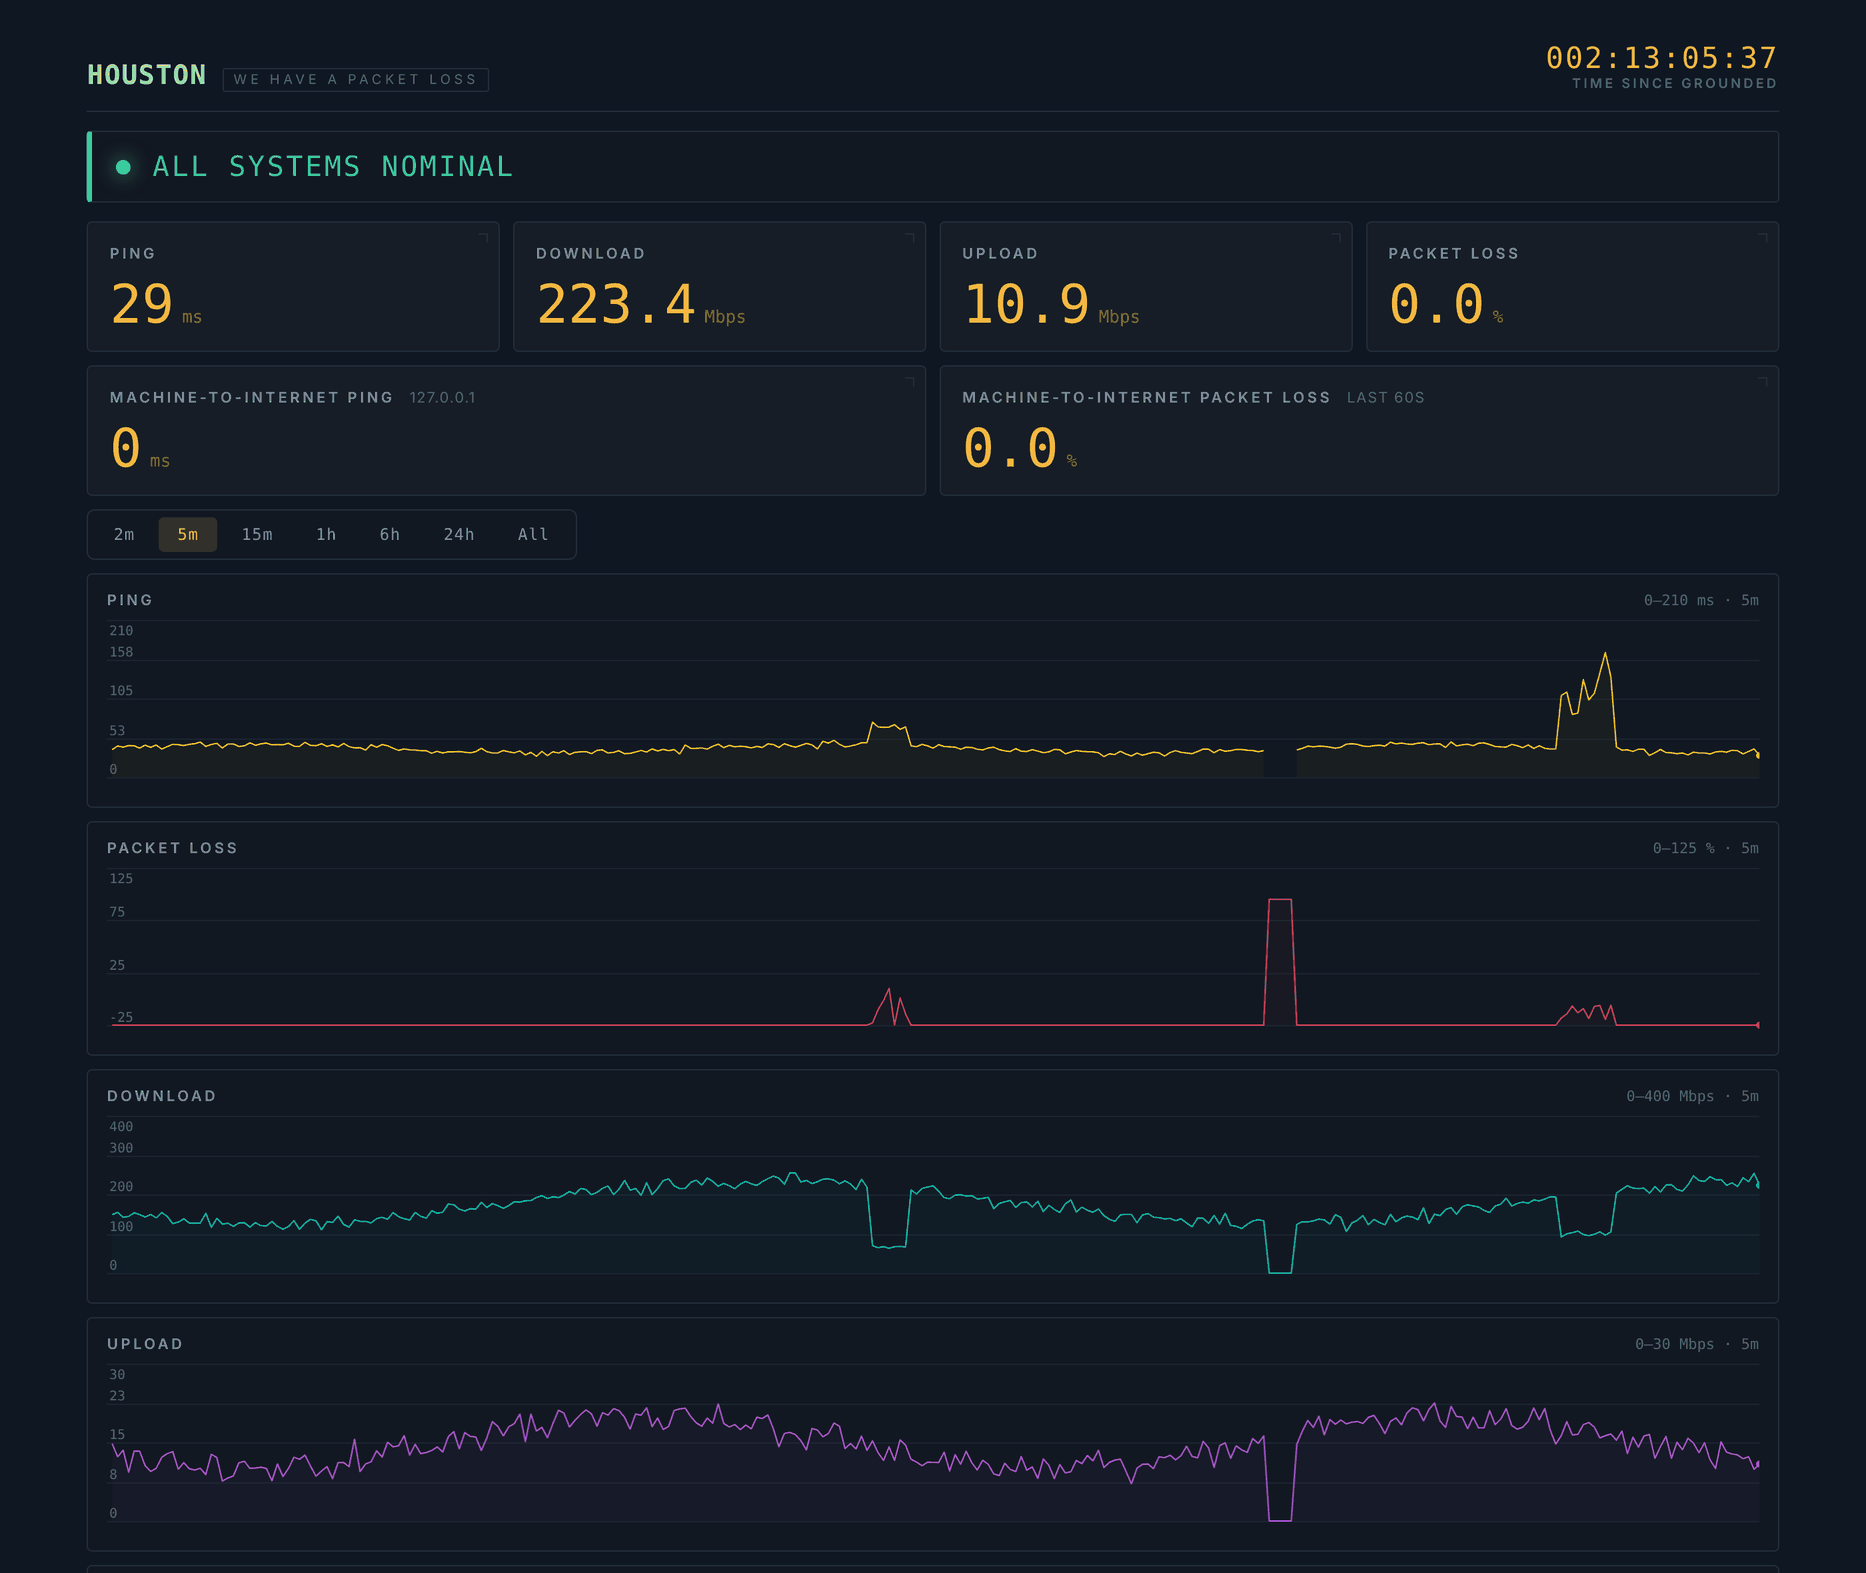
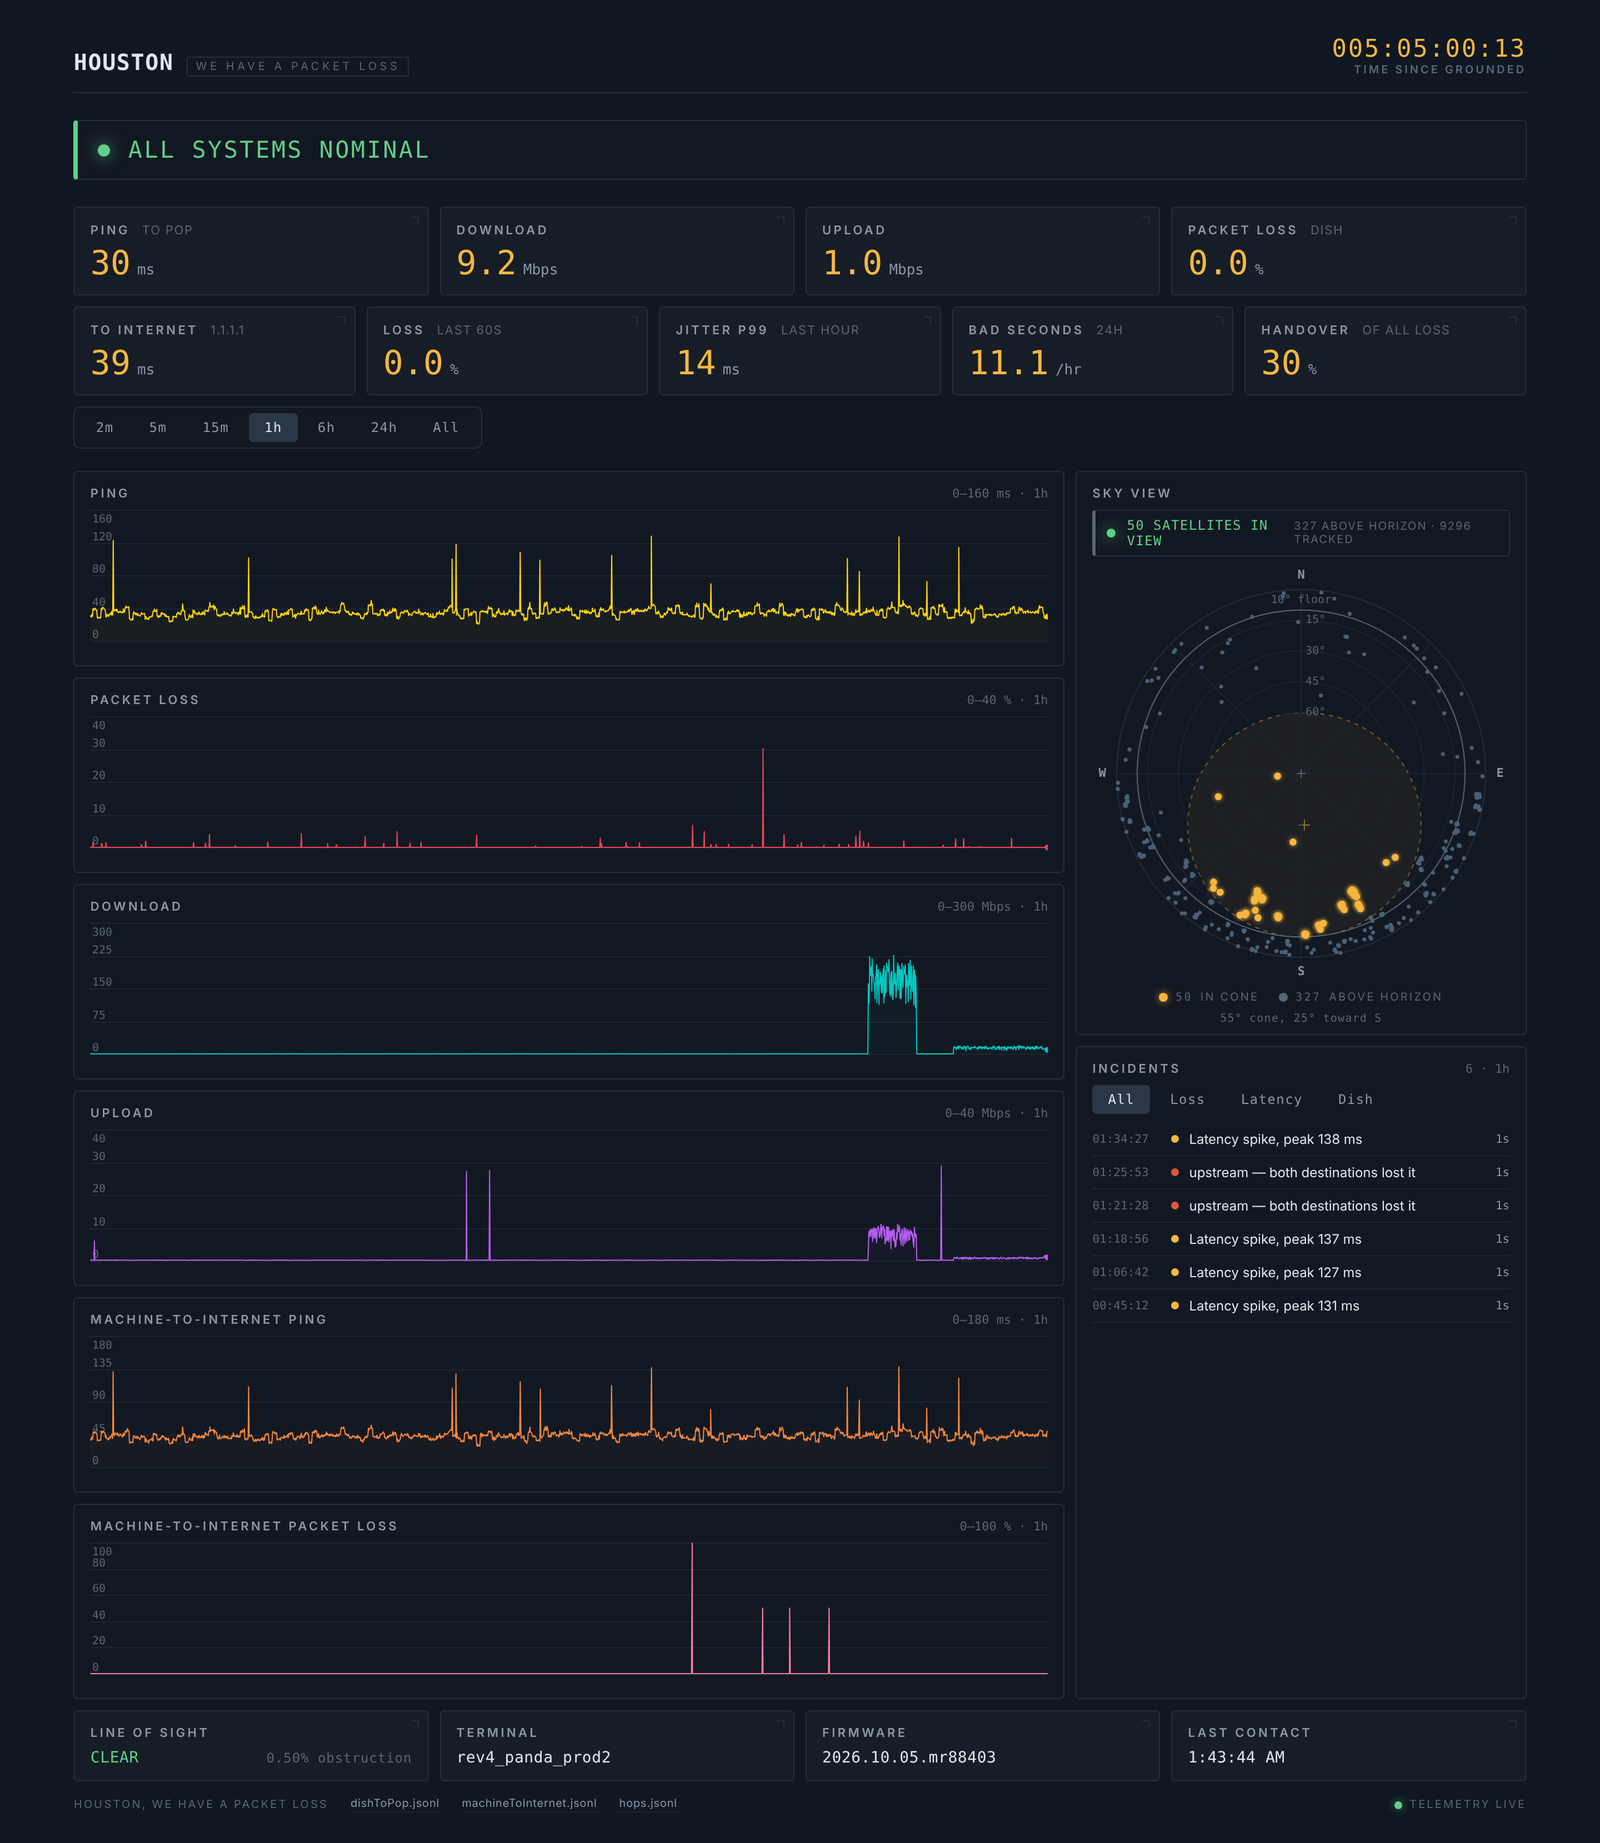
docs: updated readme

diff --git a/README.md b/README.md
@@ -40,9 +40,6 @@ useful alarm is on loss *outside* the handover second — which the hourly rollu
 - **Fake mode** — a synthetic dish that cycles through degraded, obstructed, no-signal and offline states, so the UI can be developed without hardware.
 - **Single binary, no database** — static files are embedded; data is append-only JSON Lines, pruned by atomic rewrite.
 
-![Sky view](docs/sky.png)
-<sub>Sky view: Starlink satellites above the horizon, with the dish's service cone.</sub>
-
 ## Architecture
 
 ```mermaid
